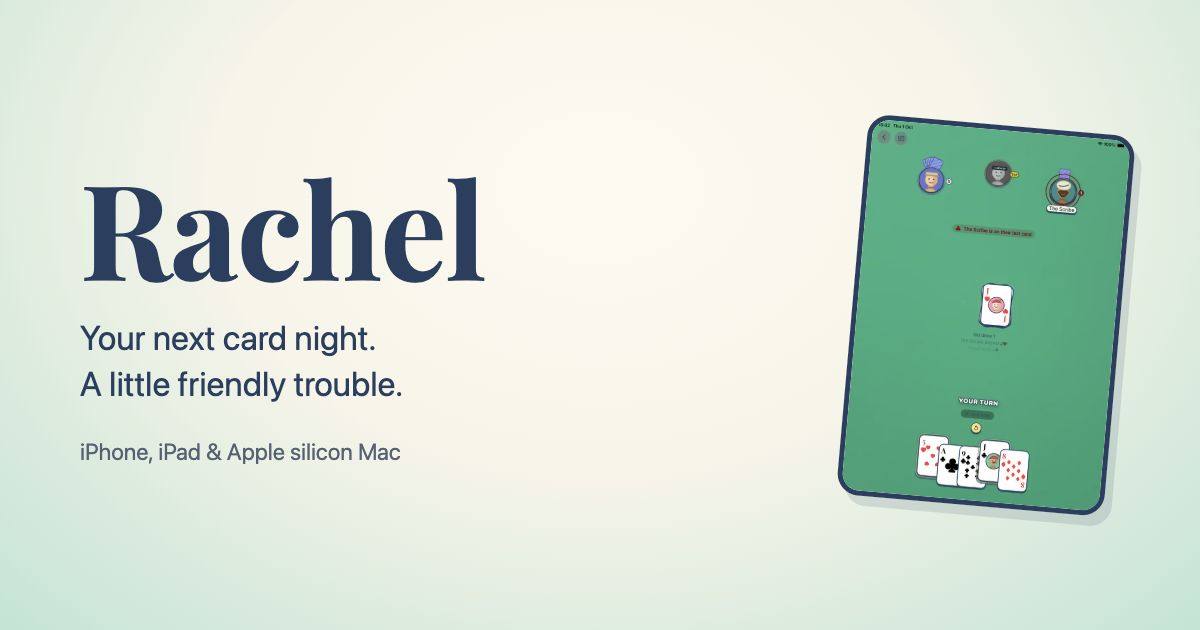
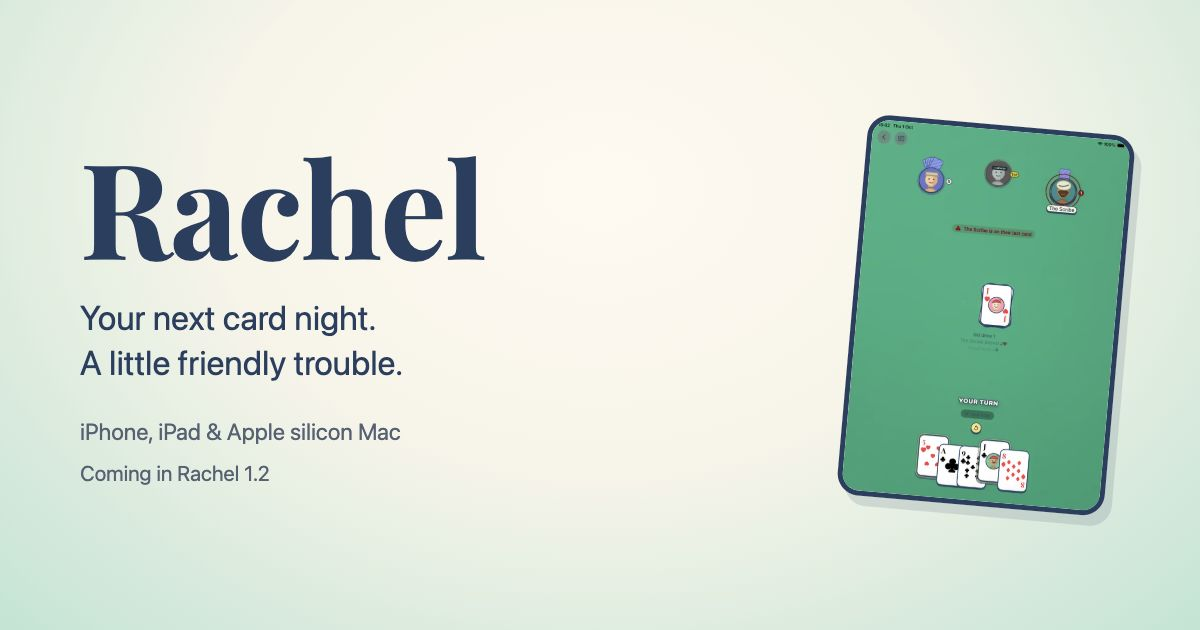
Mark Rachel 1.2 features as forthcoming before site launch

diff --git a/src/config.ts b/src/config.ts
@@ -1,6 +1,4 @@
-/**
- * Shared App Store destination for every download button.
- * This site update is prepared for 1.2; deploy once that version is released.
- * Apple approval alone does not publish a version held for manual release.
- */
+/** Shared store destination and the launch-day switch for the 1.2 notice. */
 export const APP_STORE_URL = 'https://apps.apple.com/app/id6794358319';
+// Set true only after manual release and confirmed App Store availability.
+export const RELEASE_1_2_AVAILABLE = false;

diff --git a/scripts/og-card.html b/scripts/og-card.html
@@ -72,6 +72,8 @@
     white-space: nowrap;
   }
 
+  .release { margin-top: 16px; font-size: 21px; color: var(--text-muted); }
+
   .meta {
     margin-top: 32px;
     font-size: 23px;
@@ -94,5 +96,6 @@
   <h1>Rachel</h1>
   <p class="promise">Your next card night.<br />A little friendly trouble.</p>
   <p class="meta">iPhone, iPad &amp; Apple silicon Mac</p>
+  <p class="release">Coming in Rachel 1.2</p>
 </div>
 <img src="../public/images/shot-table.webp" alt="" />

diff --git a/README.md b/README.md
@@ -45,8 +45,11 @@ metadata is stripped. The app icon comes from the iOS asset catalogue.
 
 ## Release
 
-This update describes 1.2. Wait until manual app release and confirm store
-availability before deploying it. App approval by itself does not release it.
+The site can publish ahead of the app update: a notice marks the 1.2 features
+as forthcoming, while download links point to the existing app. After manual
+app release and confirmed store availability, set `RELEASE_1_2_AVAILABLE` to
+`true` in `src/config.ts`, remove the forthcoming line from the social card
+and render it again. App approval by itself does not release it.
 The App Store URL is shared through `src/config.ts`; every download button
 uses it.
 

diff --git a/docs/release-1.2.md b/docs/release-1.2.md
@@ -40,6 +40,8 @@ Pull up a chair: https://rachel.stevehill.xyz
 
 1. Confirm App Store review approval, then release 1.2 manually when ready.
 2. Confirm 1.2 is available on the product page and the Mac download is available.
-3. Publish this website update. Pushing `main` triggers GitHub Pages deployment.
+3. Switch `RELEASE_1_2_AVAILABLE` to `true` and update the social card to
+   remove its forthcoming label. The website redesign can publish earlier
+   with the 1.2 notice. Pushing `main` triggers GitHub Pages deployment.
 4. Check the live homepage, download links, support page and social preview.
 5. Post the chosen announcement. These drafts have not been sent anywhere.
